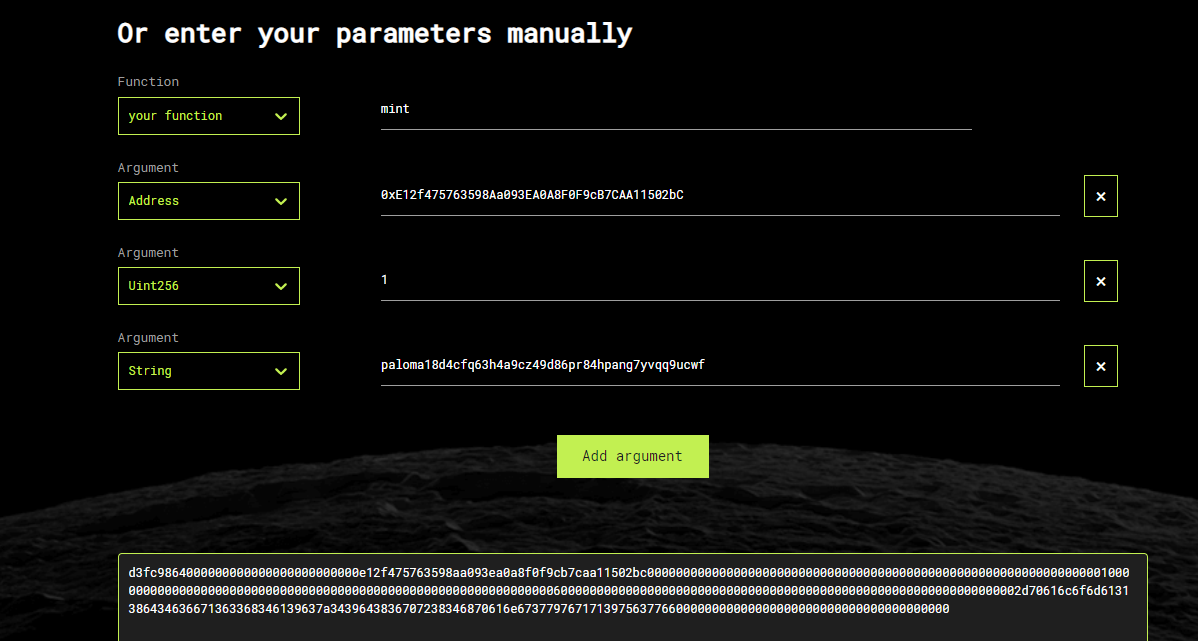
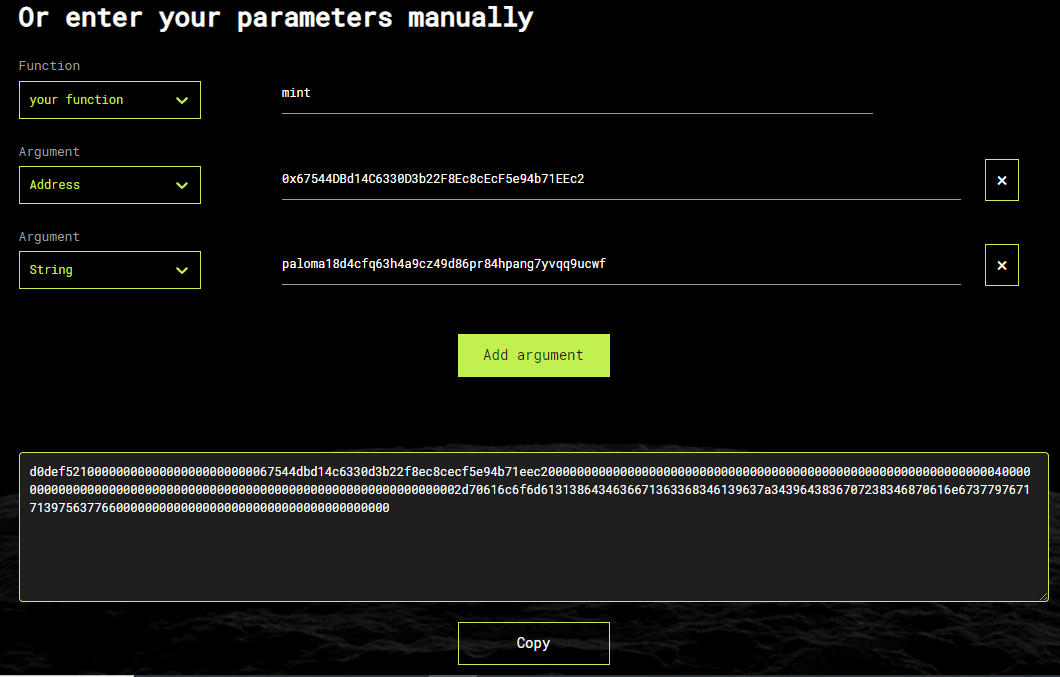
Update to new egg contract (#4)

diff --git a/src/guide/develop/quick-start/mint-egg.md b/src/guide/develop/quick-start/mint-egg.md
@@ -33,7 +33,7 @@ set -x
 #set the parameters for the JSON
 CHAIN_ID="eth-main"
 COMPASS_ID="50"
-CONTRACT_ADDRESS="0x4d746e8f7567d3bdaf64c0c366e6517b3cbe2acf"
+CONTRACT_ADDRESS="0xbb4fac66affd17365c447c837fd0a2f064313d64"
 SMART_CONTRACT_ABI='[{"type": "event", "name": "Transfer", "inputs": [{"name": "_from", "type": "address", "indexed": true}, {"name": "_to", "type": "address", "indexed": true}, {"name": "_tokenId", "type": "uint256", "indexed": true}], "anonymous": false}, {"type": "event", "name": "Approval", "inputs": [{"name": "_owner", "type": "address", "indexed": true}, {"name": "_approved", "type": "address", "indexed": true}, {"name": "_tokenId", "type": "uint256", "indexed": true}], "anonymous": false}, {"type": "event", "name": "ApprovalForAll", "inputs": [{"name": "_owner", "type": "address", "indexed": true}, {"name": "_operator", "type": "address", "indexed": true}, {"name": "_approved", "type": "bool", "indexed": false}], "anonymous": false}, {"type": "event", "name": "Minted", "inputs": [{"name": "eth_address", "type": "address", "indexed": true}, {"name": "paloma_address", "type": "string", "indexed": true}, {"name": "token_id", "type": "uint256", "indexed": true}], "anonymous": false}, {"type": "event", "name": "SetMinter", "inputs": [{"name": "new_minter", "type": "address", "indexed": true}, {"name": "old_minter", "type": "address", "indexed": true}], "anonymous": false}, {"type": "constructor", "stateMutability": "nonpayable", "inputs": []}, {"type": "function", "name": "name", "stateMutability": "nonpayable", "inputs": [], "outputs": [{"name": "", "type": "string"}]}, {"type": "function", "name": "symbol", "stateMutability": "nonpayable", "inputs": [], "outputs": [{"name": "", "type": "string"}]}, {"type": "function", "name": "supportsInterface", "stateMutability": "pure", "inputs": [{"name": "interface_id", "type": "bytes4"}], "outputs": [{"name": "", "type": "bool"}]}, {"type": "function", "name": "balanceOf", "stateMutability": "view", "inputs": [{"name": "_owner", "type": "address"}], "outputs": [{"name": "", "type": "uint256"}]}, {"type": "function", "name": "ownerOf", "stateMutability": "view", "inputs": [{"name": "_tokenId", "type": "uint256"}], "outputs": [{"name": "", "type": "address"}]}, {"type": "function", "name": "getApproved", "stateMutability": "view", "inputs": [{"name": "_tokenId", "type": "uint256"}], "outputs": [{"name": "", "type": "address"}]}, {"type": "function", "name": "isApprovedForAll", "stateMutability": "view", "inputs": [{"name": "_owner", "type": "address"}, {"name": "_operator", "type": "address"}], "outputs": [{"name": "", "type": "bool"}]}, {"type": "function", "name": "transferFrom", "stateMutability": "nonpayable", "inputs": [{"name": "_from", "type": "address"}, {"name": "_to", "type": "address"}, {"name": "_tokenId", "type": "uint256"}], "outputs": []}, {"type": "function", "name": "safeTransferFrom", "stateMutability": "nonpayable", "inputs": [{"name": "_from", "type": "address"}, {"name": "_to", "type": "address"}, {"name": "_tokenId", "type": "uint256"}], "outputs": []}, {"type": "function", "name": "safeTransferFrom", "stateMutability": "nonpayable", "inputs": [{"name": "_from", "type": "address"}, {"name": "_to", "type": "address"}, {"name": "_tokenId", "type": "uint256"}, {"name": "_data", "type": "bytes"}], "outputs": []}, {"type": "function", "name": "approve", "stateMutability": "nonpayable", "inputs": [{"name": "_approved", "type": "address"}, {"name": "_tokenId", "type": "uint256"}], "outputs": []}, {"type": "function", "name": "setApprovalForAll", "stateMutability": "nonpayable", "inputs": [{"name": "_operator", "type": "address"}, {"name": "_approved", "type": "bool"}], "outputs": []}, {"type": "function", "name": "mint", "stateMutability": "nonpayable", "inputs": [{"name": "_to", "type": "address"}, {"name": "_tokenId", "type": "uint256"}, {"name": "_paloma_address", "type": "string"}], "outputs": [{"name": "", "type": "bool"}]}, {"type": "function", "name": "set_minter", "stateMutability": "nonpayable", "inputs": [{"name": "_minter", "type": "address"}], "outputs": []}, {"type": "function", "name": "tokenURI", "stateMutability": "view", "inputs": [{"name": "tokenId", "type": "uint256"}], "outputs": [{"name": "", "type": "string"}]}, {"type": "function", "name": "minter", "stateMutability": "view", "inputs": [], "outputs": [{"name": "", "type": "address"}]}]'
 
 
@@ -114,8 +114,7 @@ This can be done in two simple steps.
 ### Get payload in Hex
 Use this [online tool](https://abi.hashex.org/) get the hex version here. You'll need to pass in the following parameters:
 - Function - your function --> mint
-- Argument - Address --> Your ethereum address
-- Argument - Uint --> 1
+- Argument - Address --> Your Ethereum address
 - Argument - String --> Your Paloma address
 
 :::details Example of Hex generation
@@ -146,7 +145,7 @@ create a JSON variable with the payload from above and export the variable
 ```sh
 export JSON=$(cat <<EOT 
 {
-  "pick_winner": {"payload": "<your base64 value>"  }
+  "pick_winner": {"payload": "<YOUR BASE64 VALUE>"  }
 }
 EOT
 )
@@ -169,4 +168,4 @@ palomad tx wasm execute \
 -y -b block
 ```
 
-**Congratulations, you have now minted and egg! Check your Ethereum wallet to see the NFT there.**
+**Congratulations, you have now minted and egg! Check your Ethereum wallet to see the NFT there.** You can also see the collection of already minted eggs on Opensea.
